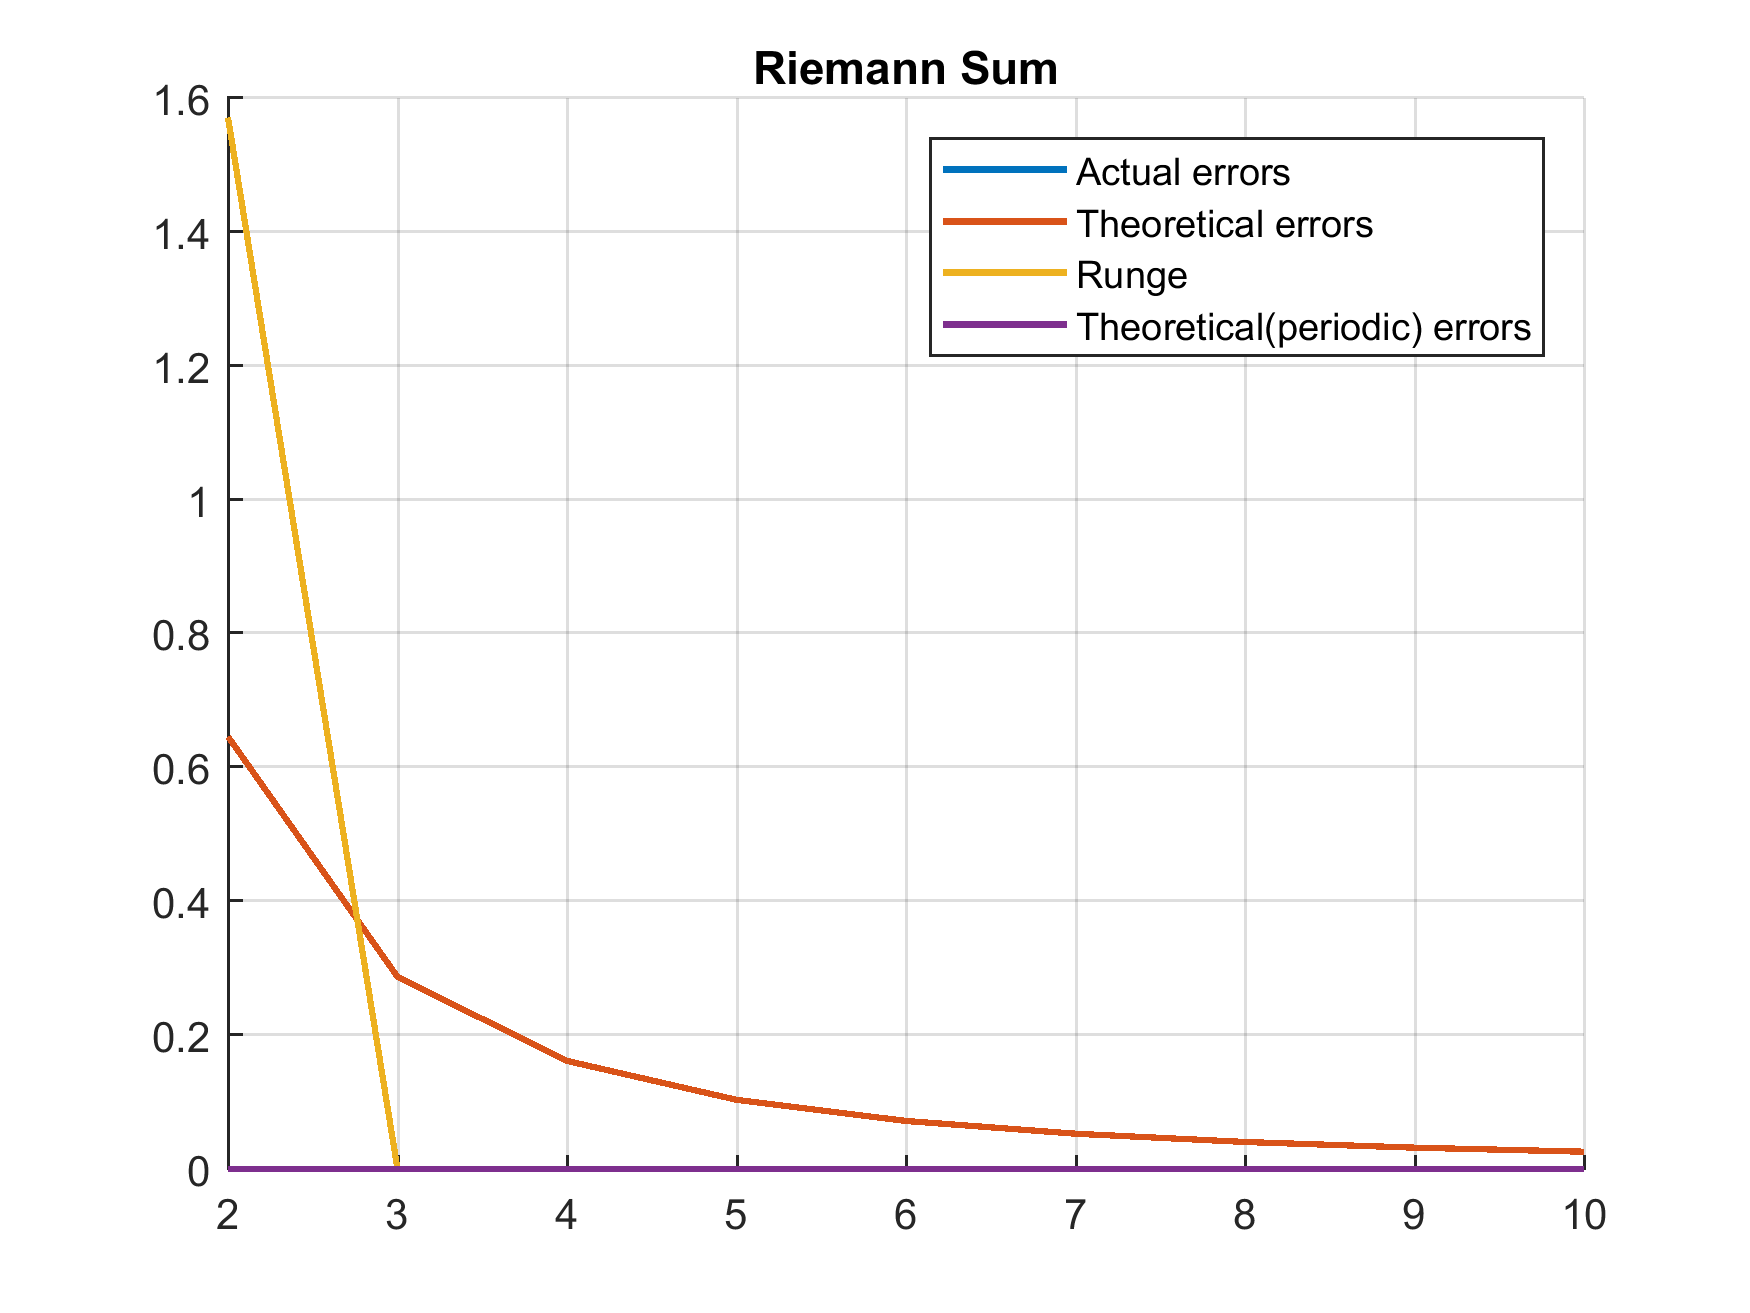
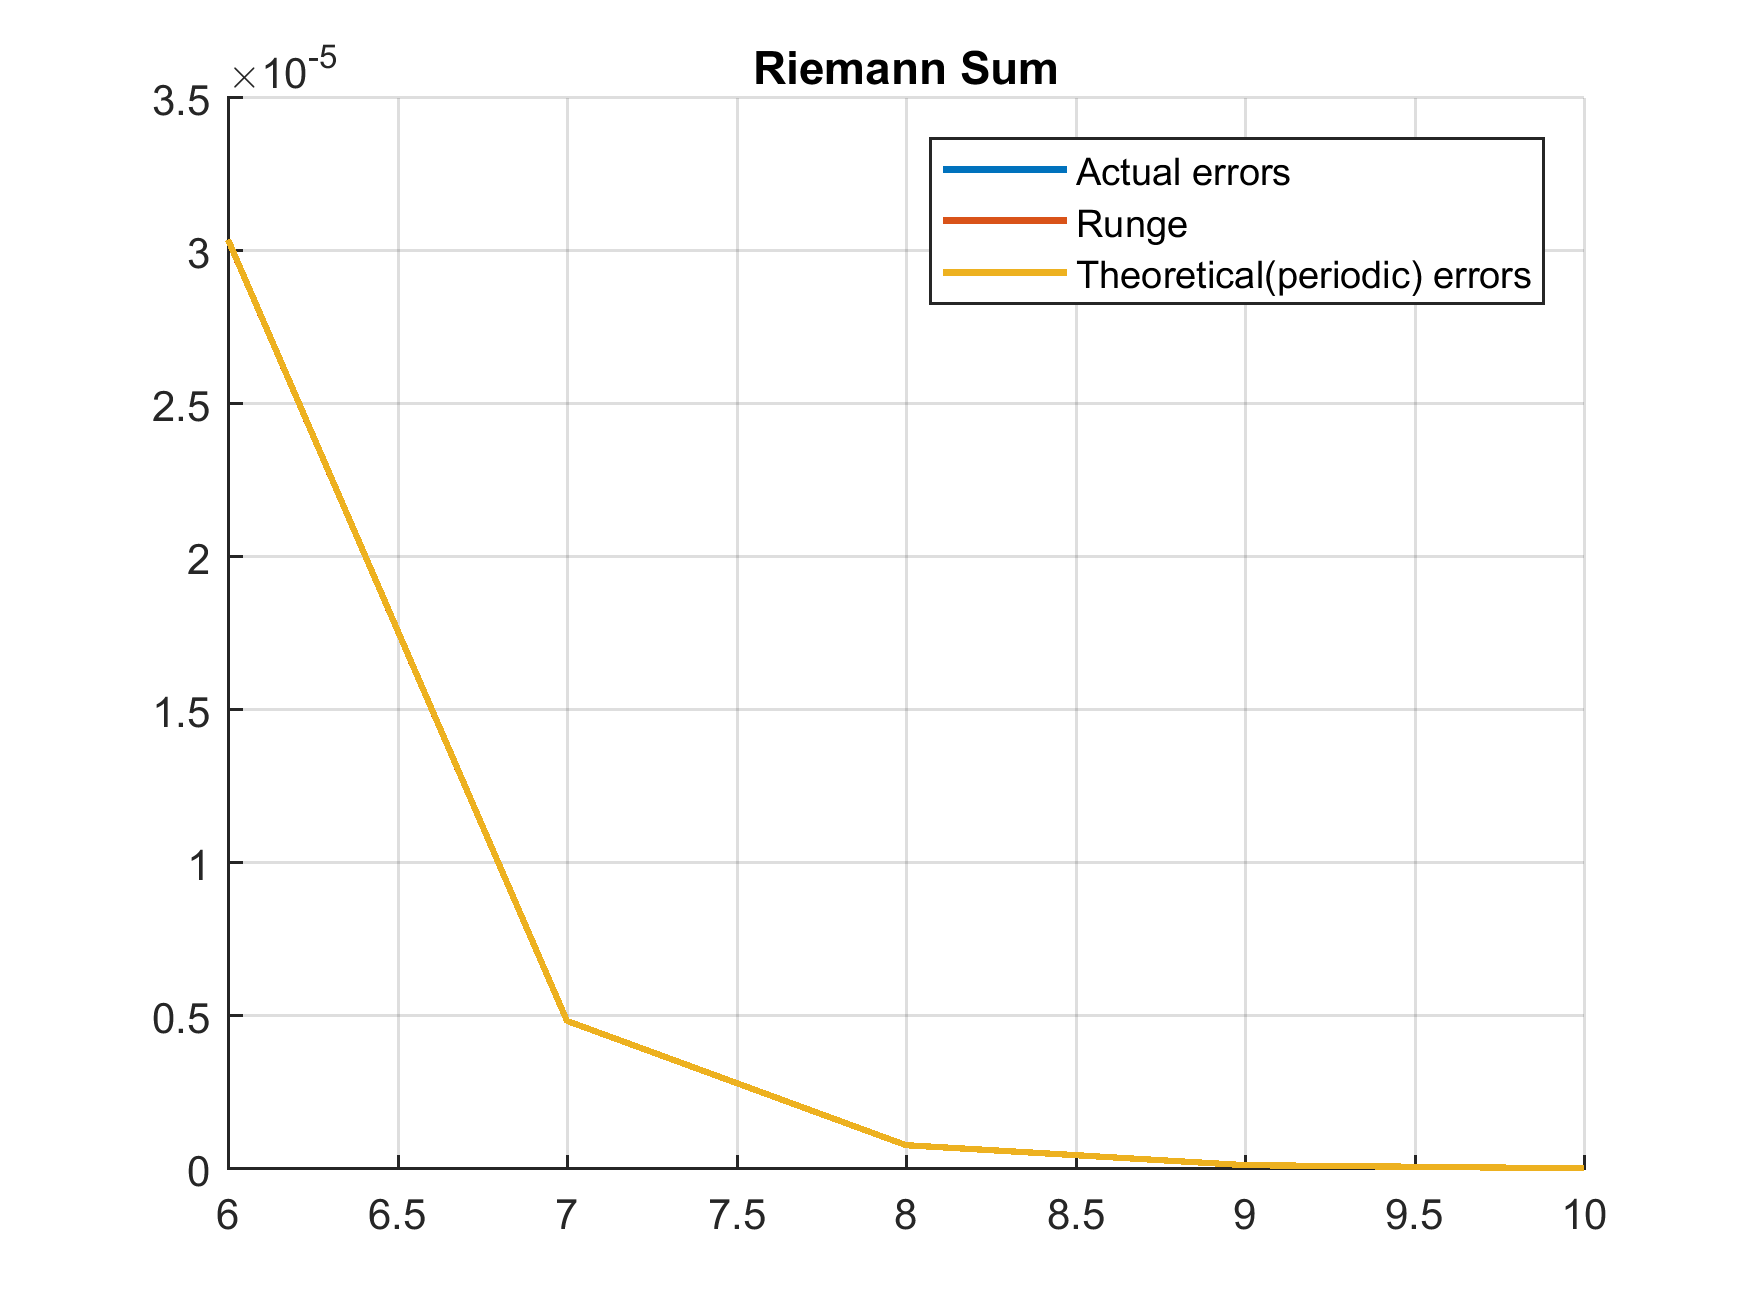
corrected work

diff --git a/Fifth_semester/Numerical_Analysis/RiemannSumForPeriodicFunction/DrawGraph.m b/Fifth_semester/Numerical_Analysis/RiemannSumForPeriodicFunction/DrawGraph.m
@@ -1,13 +1,26 @@
 % Draws graph of errors
-function [ ] = DrawGraph( func )
+function [ ] = DrawGraph( func, n, step )
     T = pi;
     a = 0;
     b = a + T;
-    n = 10;
-    xs = 2 : 1 : n;
     
-    for k = 1 : n - 1
-        errors = GetErrors(func, a, k + 1, T);
+    % search of max derivative^(2)
+    d2f = simplify(symfun(diff(diff(func, sym('x'))), sym('x')) );
+    x = a;
+    b = a + T;
+    dx = 1 / 100;
+    max_d2f = -inf;
+    while x < b
+        temp = abs((d2f(x)));
+        if temp > max_d2f
+            max_d2f = temp;
+        end
+        x = x + dx;
+    end
+    max_d2f = vpa(max_d2f);
+    
+    for k = 1 : n
+        errors = GetErrors(func, max_d2f, a, b, k, T);
         periodic(k) = errors(1);
         theoretical(k) = errors(2);
         actual(k) = errors(3);
@@ -18,15 +31,22 @@ function [ ] = DrawGraph( func )
     title('Riemann Sum');
     hold on;
     grid on;
-    actualPlot = semilogy(xs, actual, 'DisplayName', 'Actual errors');
-    theorPlot = semilogy(xs, theoretical, 'DisplayName', 'Theoretical errors');
-    RungePlot = semilogy(xs, Runge, 'DisplayName', 'Runge');
-    periodicPlot = semilogy(xs, periodic, 'DisplayName', 'Theoretical(periodic) errors');
-    set(actualPlot, 'LineWidth', 1.5);
-    set(theorPlot, 'LineWidth', 1.5);
-    set(RungePlot, 'LineWidth', 1.5);
-    set(periodicPlot, 'LineWidth', 1.5);
+    lineWidth = 1.5;
+    start = 1 + step;
+    xs = start : 1 : n;
+    semilogy(xs, actual(start : n),...
+        'DisplayName','Actual errors',...
+        'LineWidth', lineWidth);
+    semilogy(xs, theoretical(start : n),...
+        'DisplayName', 'Theoretical errors',...
+        'LineWidth', lineWidth);
+    semilogy(xs, Runge(start : n),...
+        'DisplayName', 'Runge',...
+        'LineWidth', lineWidth);
+    semilogy(xs, periodic(start : n),...
+        'DisplayName', 'Theoretical(periodic) errors',...
+        'LineWidth', lineWidth);
     legend('show');
-    print(f, '-dpng', '-r300', 'RiemannSum');
+    print(f, '-dpng', '-r300', 'RiemannSum1');
 end
 

diff --git a/Fifth_semester/Numerical_Analysis/RiemannSumForPeriodicFunction/GetErrors.m b/Fifth_semester/Numerical_Analysis/RiemannSumForPeriodicFunction/GetErrors.m
@@ -4,42 +4,32 @@
 %   3) actual error
 %   4) Runge estimate
 % arguments:
-%   func - function
-%   a - left boarder
+%   f - function
+%   max_d2f - max second derivative on [a; b]
+%   [a; b] - interval
 %   n - number of nodes
 %   T - period
-function [ errors ] = GetErrors( func, a, n, T )
-    accuracy = 15;
-    
+function [ errors ] = GetErrors( f, max_d2f, a, b, n, T )
     % theoretical(periodic) error
-    a_n = 2 / T * int(func * cos(2 * pi * n * sym('x') / T), sym('x'), a, T);
-    b_n = 2 / T * int(func * sin(2 * pi * n * sym('x') / T), sym('x'), a, T);
-    An = sqrt(a_n^2 + b_n^2);
-    errors(1) = vpa(pi * An, accuracy);
-    
-    % theoretical error 
-    d2f = symfun(diff(diff(func, sym('x'))), sym('x'));
-    x = a;
-    b = a + T;
-    dx = 1 / 100;
-    max_d2f = -inf;
-    while x < b
-        temp = abs(d2f(x));
-        if temp > max_d2f
-            max_d2f = temp;
-        end
-        x = x + dx;
+    accuracyDeg = 6;
+    An = 0;
+    for k = 1 : accuracyDeg
+        a_n = vpa(2 / T * int(f * cos(2 * pi * k * n * sym('x') / T), sym('x'), a, b));
+        b_n = vpa(2 / T * int(f * sin(2 * pi * k * n * sym('x') / T), sym('x'), a, b));
+        An = An + sqrt(a_n^2 + b_n^2);
     end
-    max_d2f = eval(max_d2f);
-    errors(2) = vpa((b - a) * ((b - a) / n) ^ 2 * max_d2f / 24, accuracy);
+    errors(1) = vpa(pi * An);
+    
+    % theoretical error
+    errors(2) = vpa((b - a) * ((b - a) / n) ^ 2 * max_d2f / 24);
     
     % actual error
-    S = RiemannSum(func, a, n, T);
-    I = int(func, sym('x'), a, T);
-    errors(3) = vpa(S - I, accuracy);
+    S = RiemannSum(f, a, n, T);
+    I = int(f, sym('x'), a, T);
+    errors(3) = vpa(abs(S - I));
     
     % Runge estimate
-    errors(4) = vpa(S - RiemannSum(func, a, 2 * n, T), accuracy);
+    errors(4) = vpa(abs(S - RiemannSum(f, a, 2 * n, T)));
 end
 
 

diff --git a/Fifth_semester/Numerical_Analysis/RiemannSumForPeriodicFunction/RiemannSum.m b/Fifth_semester/Numerical_Analysis/RiemannSumForPeriodicFunction/RiemannSum.m
@@ -7,13 +7,13 @@
 function [ S ] = RiemannSum( func, a, n, T )
     f = symfun(sym(func), sym('x'));
     b = a + T;
-    dx = (b - a) / (n - 1);
+    dx = (b - a) / n;
     x = a;
     S = sym(0);
-    for i = 0 : n - 2
+    for i = 0 : n - 1
         middle = (x + x + dx) / 2;
-        S = S + f(middle) * dx;
+        S = S + eval(f(middle) * dx);
         x = x + dx;
     end
-    S = eval(S);
+    S = vpa(S);
 end
